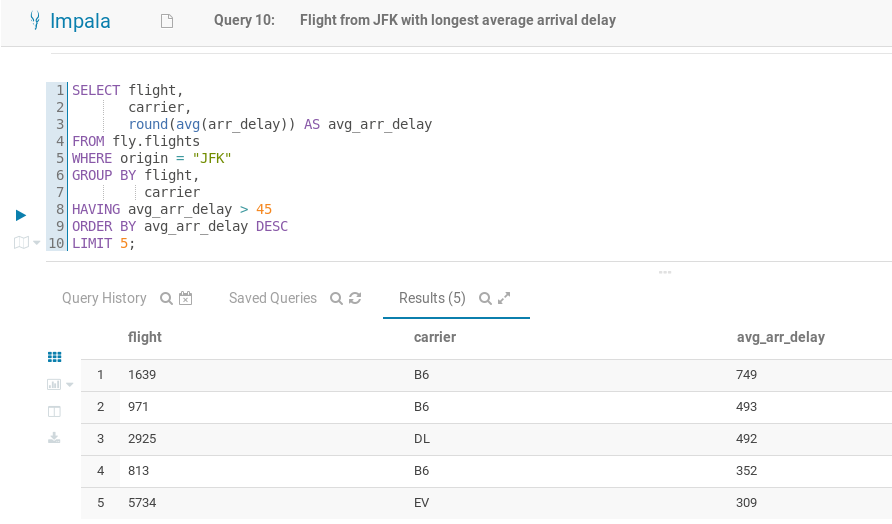
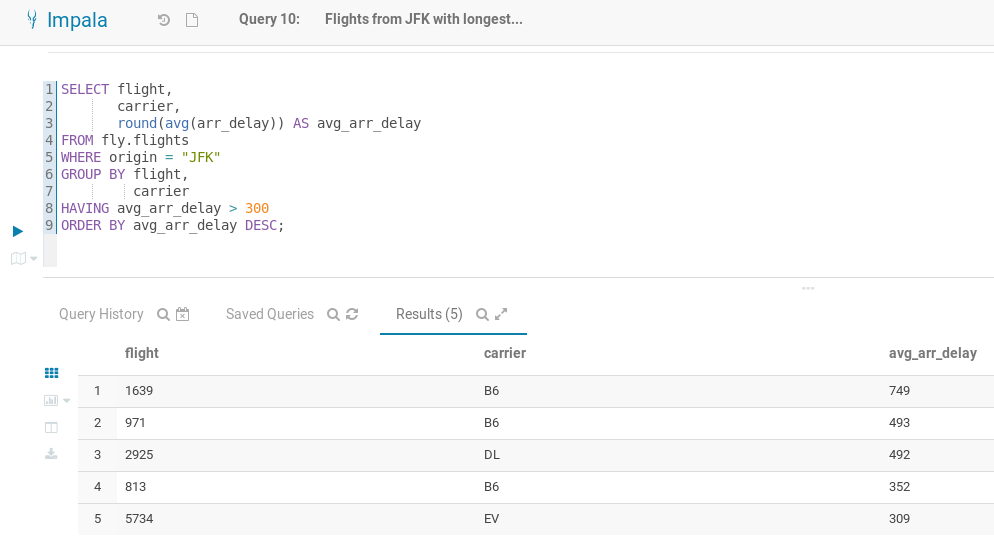
Updated queries 9 and 10

diff --git a/flights-impala/flights-2013-Impala.html b/flights-impala/flights-2013-Impala.html
@@ -14428,7 +14428,13 @@ a.anchor-link {
 </div>
 <div class="jp-Cell-inputWrapper"><div class="jp-InputPrompt jp-InputArea-prompt">
 </div><div class="jp-RenderedHTMLCommon jp-RenderedMarkdown jp-MarkdownOutput " data-mime-type="text/markdown">
-<h2 id="Query-10:-Find-the-flight-originating-from-JFK-that-has-the-longest-average-arrival-delay.">Query 10: Find the flight originating from JFK that has the longest average arrival delay.<a class="anchor-link" href="#Query-10:-Find-the-flight-originating-from-JFK-that-has-the-longest-average-arrival-delay.">&#182;</a></h2>
+<p>United recorded the longest airtime for the flight with the largest distance on March 2nd, 2014. The flight was flight 15 between EWR (Neward Liberty Intl.) and HNL (Honolulu). The distance was 4963 miles and the airtime was 706 minutes.</p>
+
+</div>
+</div>
+<div class="jp-Cell-inputWrapper"><div class="jp-InputPrompt jp-InputArea-prompt">
+</div><div class="jp-RenderedHTMLCommon jp-RenderedMarkdown jp-MarkdownOutput " data-mime-type="text/markdown">
+<h2 id="Query-10:-Find-all-the-flights-originating-from-JFK-that-have-an-average-arrival-delay-greater-than-300-minutes">Query 10: Find all the flights originating from JFK that have an average arrival delay greater than 300 minutes<a class="anchor-link" href="#Query-10:-Find-all-the-flights-originating-from-JFK-that-have-an-average-arrival-delay-greater-than-300-minutes">&#182;</a></h2>
 </div>
 </div>
 <div class="jp-Cell-inputWrapper"><div class="jp-InputPrompt jp-InputArea-prompt">
@@ -14439,7 +14445,7 @@ a.anchor-link {
 </div>
 <div class="jp-Cell-inputWrapper"><div class="jp-InputPrompt jp-InputArea-prompt">
 </div><div class="jp-RenderedHTMLCommon jp-RenderedMarkdown jp-MarkdownOutput " data-mime-type="text/markdown">
-<p>So far we have only used the flights table. We now want to build more complex queries to demonstrate the use of joins in Impala and use the data in other tables of the fly database. (TO BE CONTINUED)</p>
+<h2 id="More-complex-queries:-joins-etc">More complex queries: joins etc<a class="anchor-link" href="#More-complex-queries:-joins-etc">&#182;</a></h2><p>So far we have only used the flights table. We now want to build more complex queries to demonstrate the use of joins in Impala and use the data in other tables of the fly database. (TO BE CONTINUED)</p>
 
 </div>
 </div>
